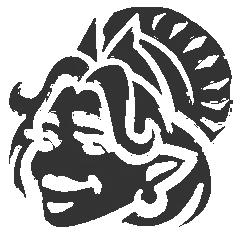
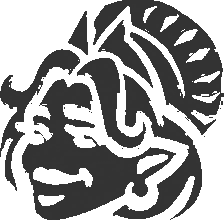
Refine matchup share cards with player names and game day

diff --git a/app/(app)/matchups/[id]/opengraph-image.tsx b/app/(app)/matchups/[id]/opengraph-image.tsx
@@ -56,9 +56,10 @@ function HeroBackdrop({
       alt=""
       style={{
         position: "absolute",
-        top: 100,
-        [side]: -40,
+        bottom: -24,
+        [side]: -24,
         objectFit: "contain",
+        objectPosition: "right bottom",
         transform: side === "left" ? "scaleX(-1)" : "scaleX(1)",
       }}
     />
@@ -76,9 +77,20 @@ function font() {
 
 function Mark() {
   return (
-    <div style={{ display: "flex", alignItems: "center", gap: 14, fontSize: 34, color: FOREGROUND }}>
-      <img src={logo} width={64} height={40} alt="" />
-      BazaarGhost
+    <div style={{ display: "flex", justifyContent: "center", alignItems: "center", gap: 14, width: "100%" }}>
+      <span style={{ fontSize: 34 }}>Watch on</span>
+      <span style={{ fontSize: 48, color: ORANGE }}>BazaarGhost</span>
+      <img src={logo} width={80} height={50} alt="" />
+    </div>
+  );
+}
+
+function PlayerName({ name }: { name: string }) {
+  return (
+    <div style={{ display: "flex", justifyContent: "center", width: 480 }}>
+      <div style={{ display: "block", maxWidth: "100%", fontSize: 60, lineHeight: 1.05, textAlign: "center", wordBreak: "break-all", lineClamp: 2 }}>
+        {name}
+      </div>
     </div>
   );
 }
@@ -120,6 +132,7 @@ export default async function Image({ params }: Props) {
   const { rank } = matchup.opponent;
   const opponent = opponentLabel(matchup.opponent);
   const badge = rank ? RANK_BADGES[rank.toLowerCase()] : undefined;
+  const day = matchup.encounter.igd;
   return new ImageResponse(
     <div style={root}>
       <HeroBackdrop hero={matchup.encounter.streamerHero} side="left" />
@@ -129,8 +142,8 @@ export default async function Image({ params }: Props) {
         style={{
           position: "absolute",
           top: 148,
-          left: 260,
-          width: 680,
+          left: 230,
+          width: 740,
           height: 240,
           display: "flex",
           alignItems: "center",
@@ -141,9 +154,8 @@ export default async function Image({ params }: Props) {
         <div
           style={{
             display: "flex",
-            flexDirection: "column",
             alignItems: "center",
-            gap: 28,
+            justifyContent: "center",
             width: 240,
             flexShrink: 0,
           }}
@@ -151,29 +163,28 @@ export default async function Image({ params }: Props) {
           {creator.avatar ? (
             <img
               src={creator.avatar}
-              width={220}
-              height={220}
+              width={200}
+              height={200}
               alt=""
-              style={{ borderRadius: 110, border: `8px solid ${ORANGE}` }}
+              style={{ borderRadius: 100, border: `6px solid ${ORANGE}` }}
             />
           ) : (
             <div
               style={{
-                width: 220,
-                height: 220,
-                borderRadius: 110,
+                width: 200,
+                height: 200,
+                borderRadius: 100,
                 background: ORANGE,
               }}
             />
           )}
         </div>
-        <div style={{ fontSize: 56, color: ORANGE, display: "flex" }}>vs</div>
+        <div style={{ fontSize: 40, color: "#a0a0a0", display: "flex" }}>vs</div>
         <div
           style={{
             display: "flex",
-            flexDirection: "column",
             alignItems: "center",
-            gap: 20,
+            justifyContent: "center",
             width: 240,
             flexShrink: 0,
           }}
@@ -191,21 +202,19 @@ export default async function Image({ params }: Props) {
               <img src={badge} width={128} height={128} alt={rank ?? ""} />
             ) : null}
           </div>
-          <div
-            style={{
-              width: 600,
-              display: "flex",
-              justifyContent: "center",
-              fontSize: 48,
-              textAlign: "center",
-              whiteSpace: "nowrap",
-            }}
-          >
-            {opponent}
-          </div>
         </div>
       </div>
-      <div style={{ display: "flex", height: 10, background: ORANGE, borderRadius: 5 }} />
+      <div
+        style={{ position: "absolute", top: 380, left: 110, width: 980, display: "flex", gap: 20 }}
+      >
+        <PlayerName name={creator.name} />
+        <PlayerName name={opponent} />
+      </div>
+      {day != null ? (
+        <div style={{ display: "flex", justifyContent: "center", width: "100%", fontSize: 40, color: ORANGE }}>
+          Day {day}
+        </div>
+      ) : null}
     </div>,
     { ...size, fonts, headers }
   );

diff --git a/scripts/generate-og-hero-insets.py b/scripts/generate-og-hero-insets.py
@@ -25,6 +25,7 @@ def main():
         mask = Image.open(public / "heroes/insets" / f"{hero}.webp").convert("RGBA")
         image = Image.new("RGBA", mask.size, "#333333")
         image.putalpha(mask.getchannel("A"))
+        image = image.crop(image.getbbox())
         path = output / f"{hero}.png"
         if args.check:
             actual = Image.open(path).convert("RGBA")
